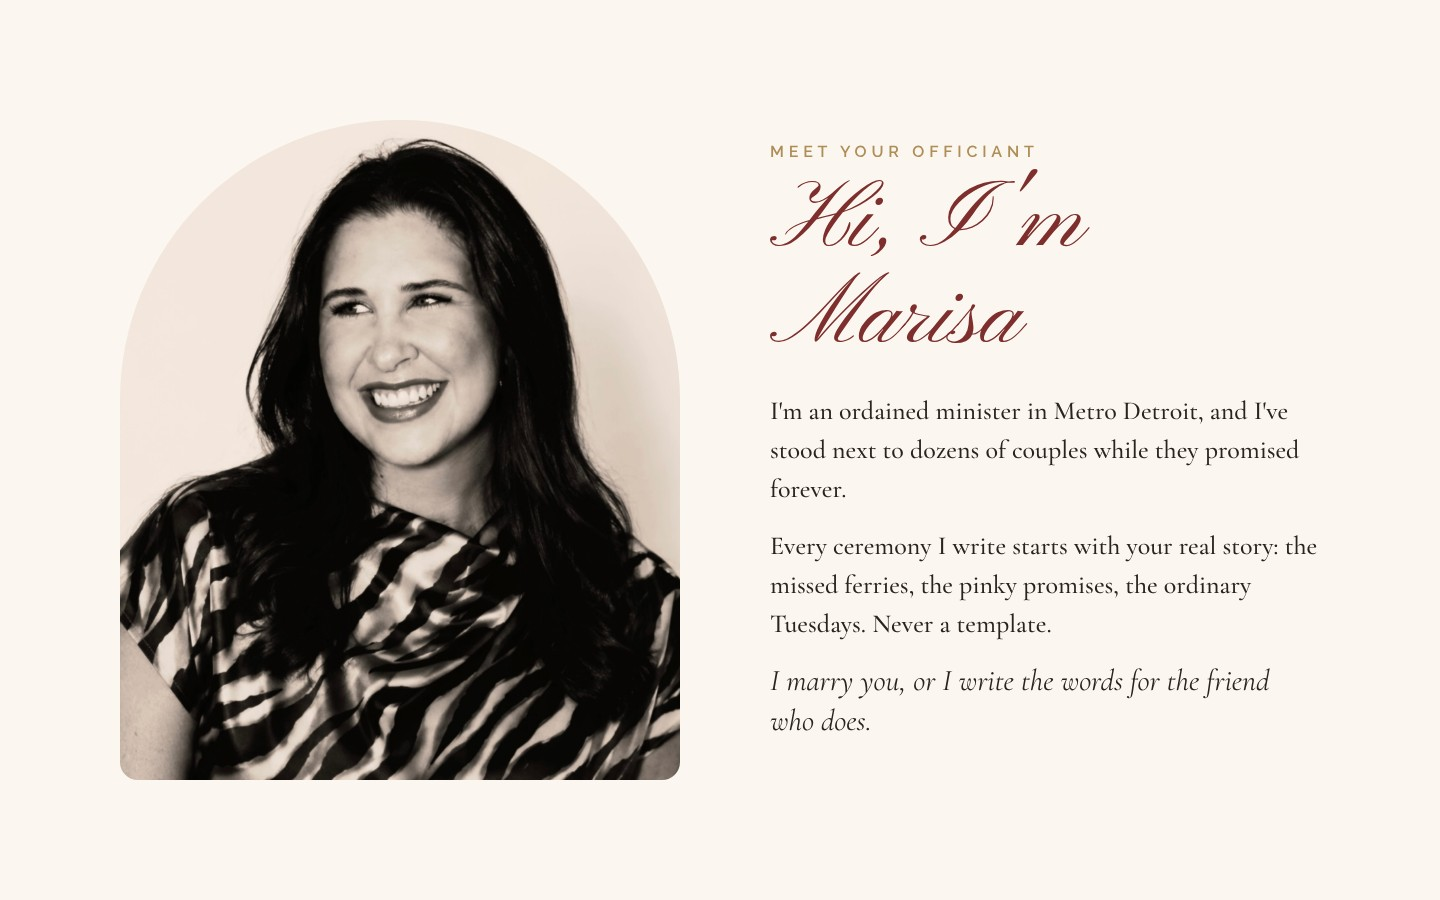
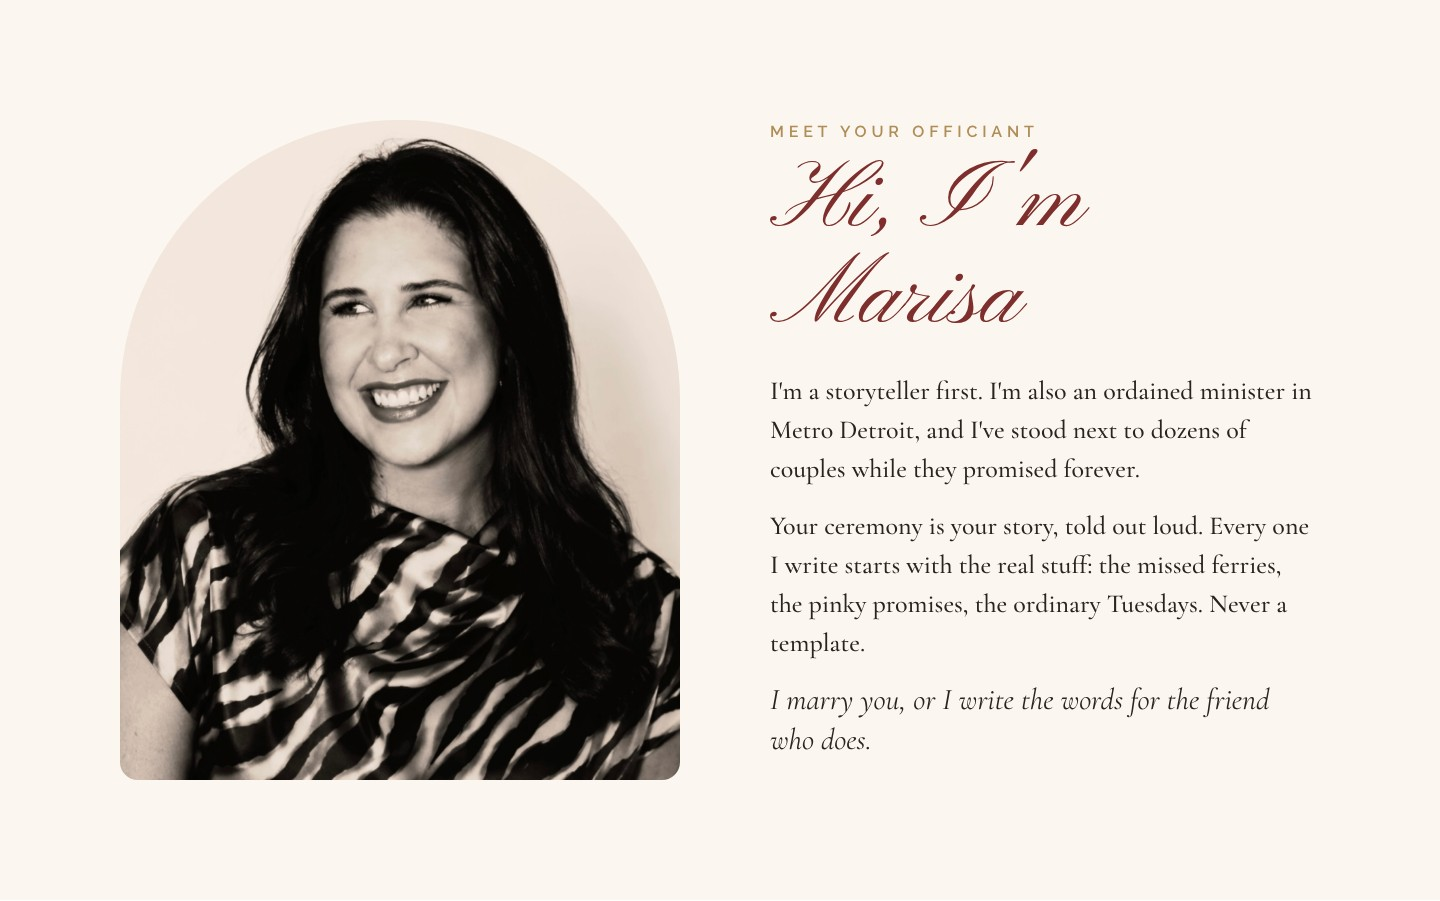
Email signature: name + three websites; storytelling-led About preview
Claude-Session: https://claude.ai/code/session_01CeoovJ21APbX2P2SCMoWFW

diff --git a/ido_cool/headshot/sig.html b/ido_cool/headshot/sig.html
@@ -6,6 +6,9 @@ body{margin:0;background:#fff}
 .r{font:600 12px 'Raleway';letter-spacing:.22em;text-transform:uppercase;color:#B08D57;margin:8px 0 8px}
 .t{font:italic 400 17px/1.25 'Cormorant Garamond'}
 .l{font:500 13px 'Raleway';margin-top:8px;color:#2A241F}
+#sig2{width:600px;padding:18px 22px;box-sizing:border-box;background:#fff;color:#2A241F}
+#sig2 .nm{font:700 22px/1 Raleway;letter-spacing:.06em}
+#sig2 .ln{margin-top:8px;font:500 14px/1.6 Raleway;color:#5b524b}#sig2 .ln a{display:block}
 #about{width:1440px;height:900px;background:#FBF7F0;display:grid;grid-template-columns:560px 1fr;gap:90px;align-items:center;padding:0 120px;box-sizing:border-box;color:#2A241F}
 #about img{width:560px;height:660px;object-fit:cover;object-position:center top;border-radius:280px 280px 18px 18px}
 #about .k{font:600 16px 'Raleway';letter-spacing:.3em;text-transform:uppercase;color:#B08D57}
@@ -13,10 +16,10 @@ body{margin:0;background:#fff}
 #about p{font:400 26px/1.5 'Cormorant Garamond';margin:0 0 18px;max-width:600px}
 #about em{font:italic 500 30px/1.3 'Cormorant Garamond'}
 </style></head><body>
-<div id="sig"><img src="headshot.jpg"><div><div class="n">Marisa Kahnt</div><div class="r">Officiant · Ceremony Writer</div><div class="t">I marry you, or I write the words for the friend who does.</div><div class="l">idobymarisa.com &nbsp;·&nbsp; @idobymarisa</div></div></div>
+<div id="sig2"><div class="nm">MARISA KAHNT</div><div class="ln"><a>marisakahnt.com</a><a>idobymarisa.com</a><a>marisastitches.com</a></div></div>
 <div style="height:40px"></div>
 <div id="about"><img src="headshot.jpg"><div><div class="k">Meet your officiant</div><h2>Hi, I'm Marisa</h2>
-<p>I'm an ordained minister in Metro Detroit, and I've stood next to dozens of couples while they promised forever.</p>
-<p>Every ceremony I write starts with your real story: the missed ferries, the pinky promises, the ordinary Tuesdays. Never a template.</p>
+<p>I'm a storyteller first. I'm also an ordained minister in Metro Detroit, and I've stood next to dozens of couples while they promised forever.</p>
+<p>Your ceremony is your story, told out loud. Every one I write starts with the real stuff: the missed ferries, the pinky promises, the ordinary Tuesdays. Never a template.</p>
 <p><em>I marry you, or I write the words for the friend who does.</em></p></div></div>
 </body></html>

diff --git a/ido_cool/headshot/shoot.js b/ido_cool/headshot/shoot.js
@@ -1,7 +1,7 @@
 const {chromium}=require('playwright');const path=require('path');
 (async()=>{const b=await chromium.launch();const p=await b.newPage({viewport:{width:1440,height:1200},deviceScaleFactor:2});
 await p.goto('file://'+path.join(__dirname,'sig.html'));await p.evaluate(()=>document.fonts.ready);await p.waitForTimeout(1000);
-await p.locator('#sig').screenshot({path:path.join(__dirname,'IDo_email_signature.png')});
+await p.locator('#sig2').screenshot({path:path.join(__dirname,'IDo_email_signature.png')});
 await p.setViewportSize({width:1440,height:1200});
 const q=await b.newPage({viewport:{width:1440,height:1200},deviceScaleFactor:1});await q.goto('file://'+path.join(__dirname,'sig.html'));await q.evaluate(()=>document.fonts.ready);await q.waitForTimeout(1000);
 await q.locator('#about').screenshot({path:path.join(__dirname,'IDo_website_about_preview.jpg'),type:'jpeg',quality:90});
